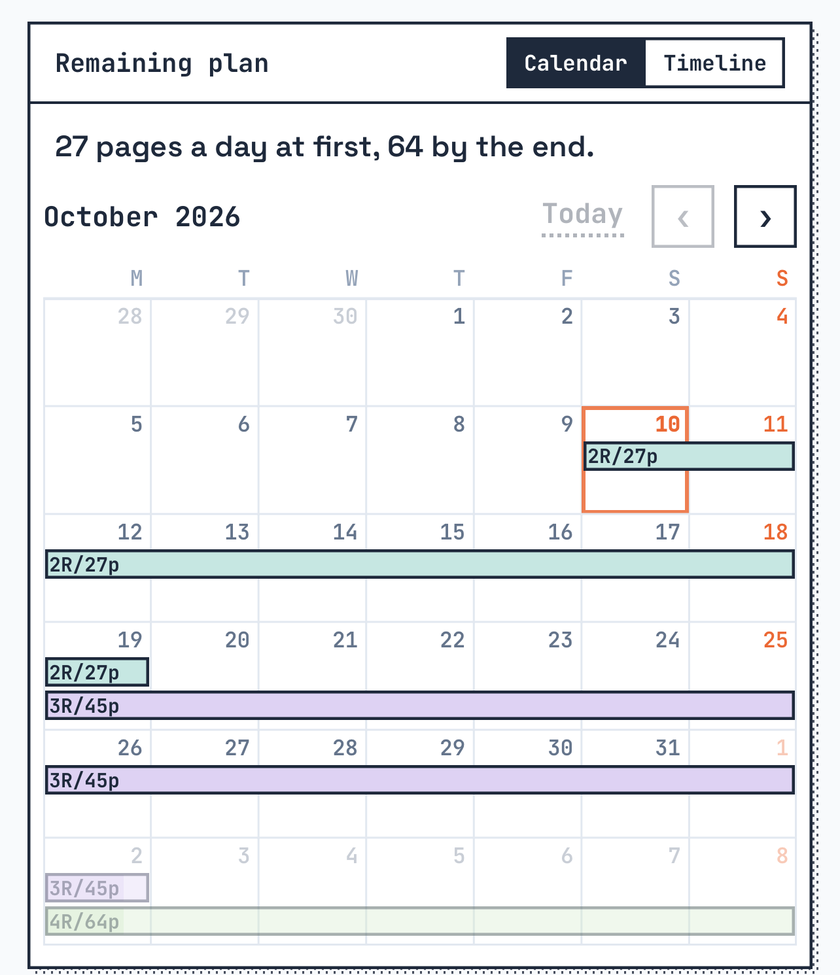
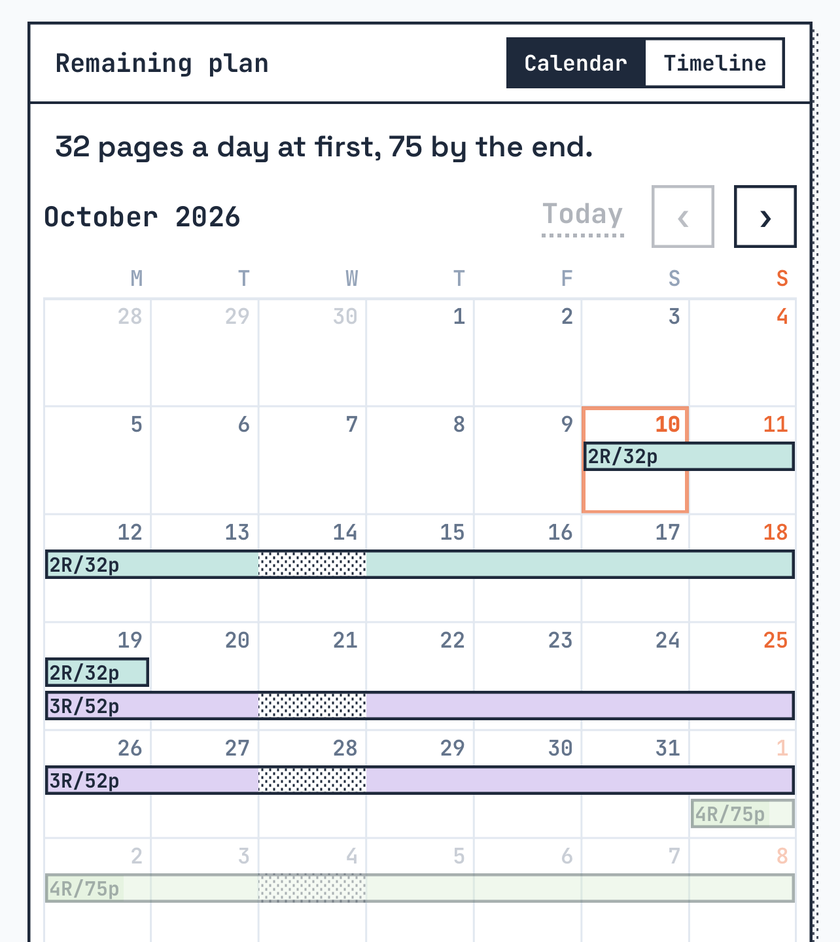
Landing: the plan tile shows a calendar with a rest day; the history phone always starts under its words

diff --git a/src/styles/landing.css b/src/styles/landing.css
@@ -39,7 +39,11 @@
 .panel img { display: block; width: 100%; max-width: 420px; height: auto; }
 .panel.mid { align-items: center; }
 .panel.top { align-items: flex-start; padding-top: 26px; }
-.t-history .phone { left: 50%; width: 220px; margin-left: -110px; top: 120px; }
+/* The phone starts under the words, however many lines the title takes (English wraps to two). */
+.t-history { display: flex; flex-direction: column; }
+.t-history .copy { order: -1; }
+.t-history .clip { position: relative; inset: auto; flex: 1; margin: 22px -32px -30px; border-radius: 0; }
+.t-history .phone { left: 50%; width: 220px; margin-left: -110px; top: 0; }
 
 .t-brand { display: flex; flex-direction: column; align-items: center; justify-content: center; text-align: center; }
 .t-brand img { width: 76px; height: 76px; border-radius: 18px; }
@@ -131,6 +135,8 @@
   .panel { top: auto; left: 0; width: 100%; height: 58%; padding: 0 22px; }
   .panel.top { padding-top: 18px; }
   .tall .phone, .t-history .phone { left: 50%; right: auto; width: 230px; margin-left: -115px; top: 128px; transform: none; }
+  .t-history .phone { top: 0; }
+  .t-history .clip { margin: 20px -24px -26px; }
   .t-brand { display: none; }
   .tile h3 { font-size: 24px; }
   .section { padding-top: 125px; }
